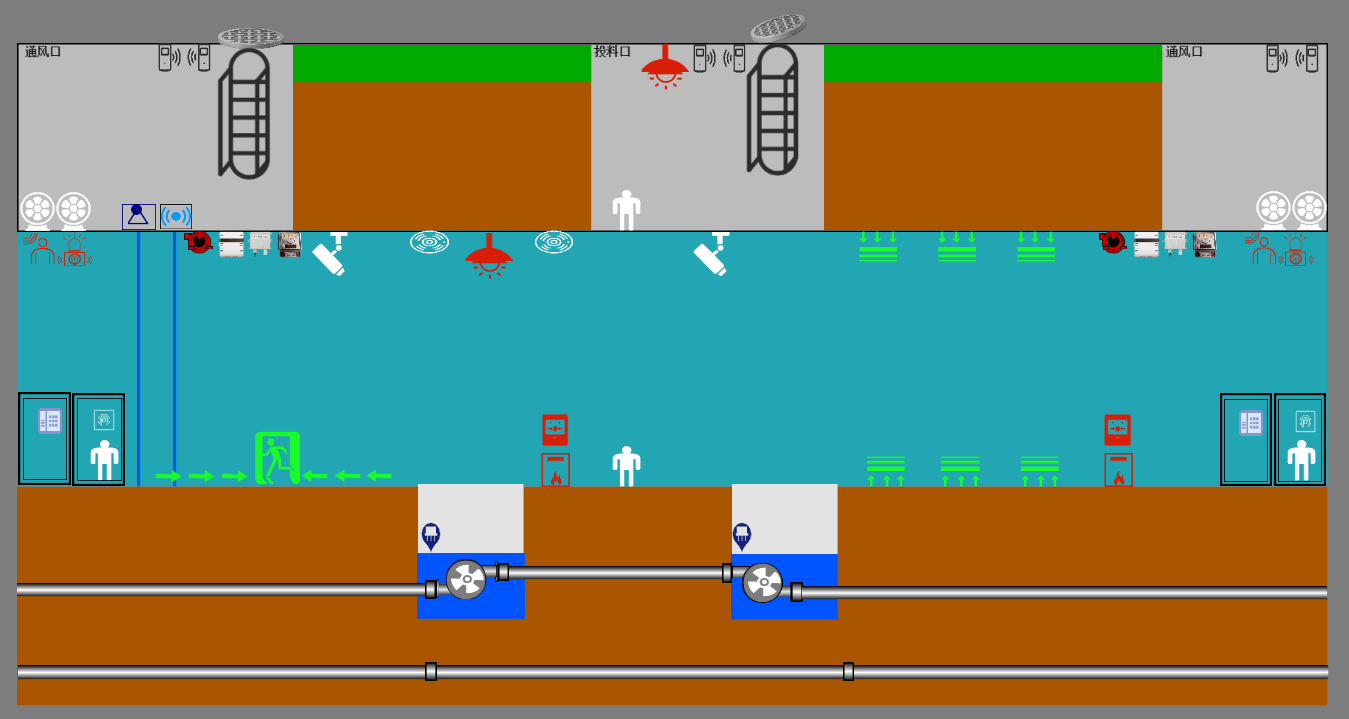
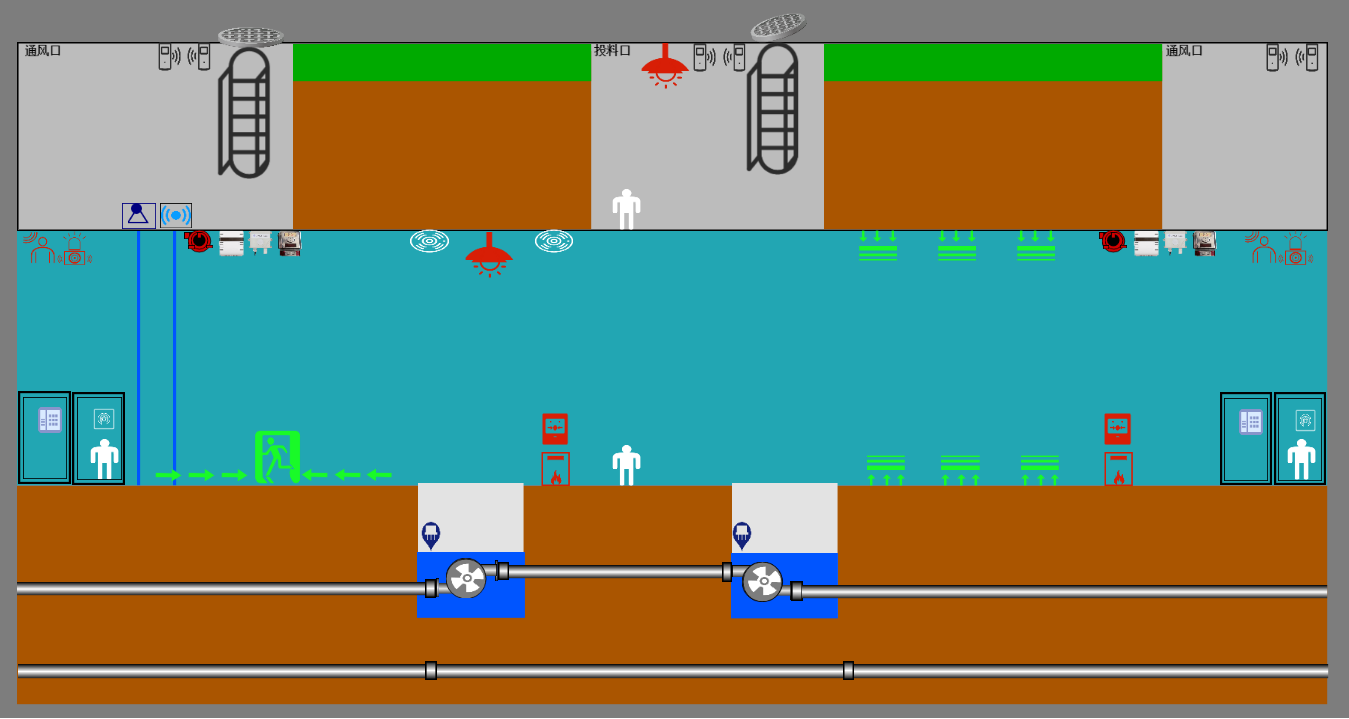
添加风扇

diff --git a/frontend/src/components/fan/Fan.vue b/frontend/src/components/fan/Fan.vue
@@ -1,0 +1,63 @@
+<template>
+  <section>
+    <img src="./rotator.png" ref="rotator">
+  </section>
+</template>
+<script>
+export default {
+  props: {
+    speed: {
+      default: 2
+    }
+  },
+  mounted() {
+    this.refs.rotator.style.animation = 'rotate ' + 1 / this.speed + 's linear infinite'
+  },
+  watch: {
+    speed(newVal) {
+      this.refs.rotator.style.animation = 'rotate ' + 1 / newVal + 's linear infinite'
+    }
+  }
+};
+
+</script>
+<style scoped>
+section {
+  background: url(./shell.png);
+  width: 40px;
+  height: 40px;
+  z-index: 9;
+  position: relative;
+}
+
+img {
+  position: absolute;
+  left: 7px;
+  top: 4px;
+  animation: rotate 0.5s linear infinite;
+}
+
+@keyframes rotate {
+  0% {
+    transform: rotate(0deg) skew(0deg) scale(1);
+    -ms-transform: rotate(0deg) skew(0deg) scale(1);
+    /* IE 9 */
+    -moz-transform: rotate(0deg) skew(0deg) scale(1);
+    /* Firefox */
+    -webkit-transform: rotate(0deg) skew(0deg) scale(1);
+    /* Safari ºÍ Chrome */
+    -o-transform: rotate(0deg) skew(0deg) scale(1);
+  }
+  100% {
+    transform: rotate(-360deg) skew(0deg) scale(1);
+    -ms-transform: rotate(-360deg) skew(0deg) scale(1);
+    /* IE 9 */
+    -moz-transform: rotate(-360deg) skew(0deg) scale(1);
+    /* Firefox */
+    -webkit-transform: rotate(-360deg) skew(0deg) scale(1);
+    /* Safari ºÍ Chrome */
+    -o-transform: rotate(-360deg) skew(0deg) scale(1);
+  }
+}
+
+</style>

diff --git a/frontend/src/components/monitor_data/state/SectionState.vue b/frontend/src/components/monitor_data/state/SectionState.vue
@@ -1,12 +1,13 @@
 <template>
 <section class="wrapper" ref="wrapper">
-   <img :src="node.img_url" alt="无" ref="source">
-  <canvas ref="canvas">
-  </canvas>
+   <img :src="node.img_url">
+   <Fan class="fan"></Fan>
 </section>
 </template>
 <script>
+import Fan from '@/components/fan/Fan'
 export default {
+  components:{Fan},
   props: {
     node: Object
   },
@@ -29,5 +30,11 @@ img{
   top: 0;
   width: 100%;
   height: 100%;
+}
+.fan{
+  position: absolute;
+  left: 3%;
+  top: 27%;
+  z-index: 99;
 }
 </style>
